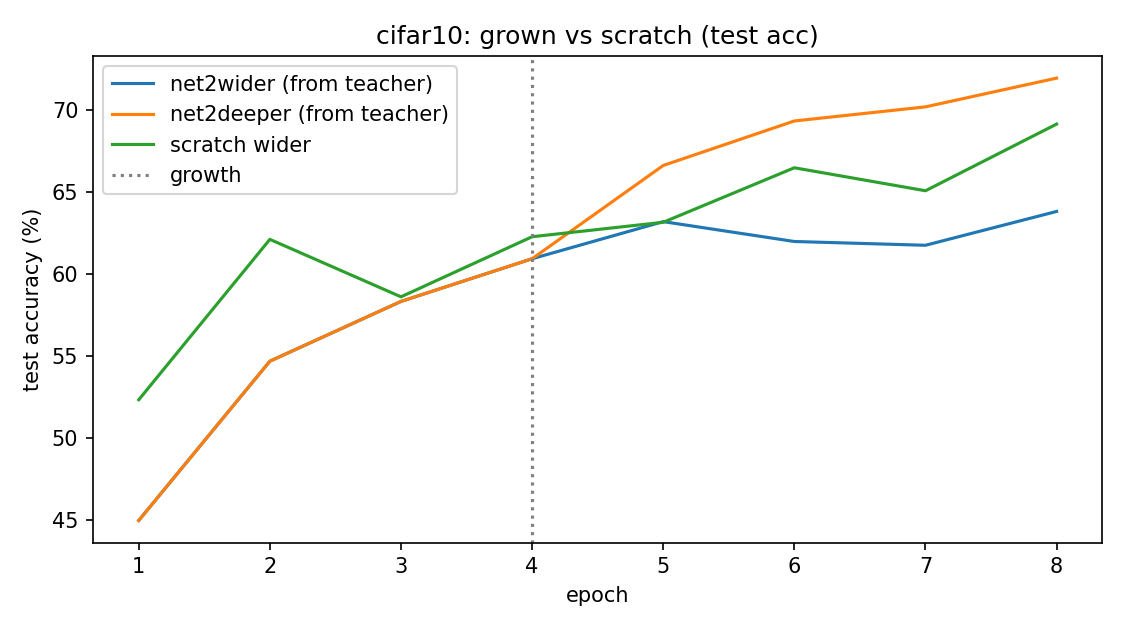
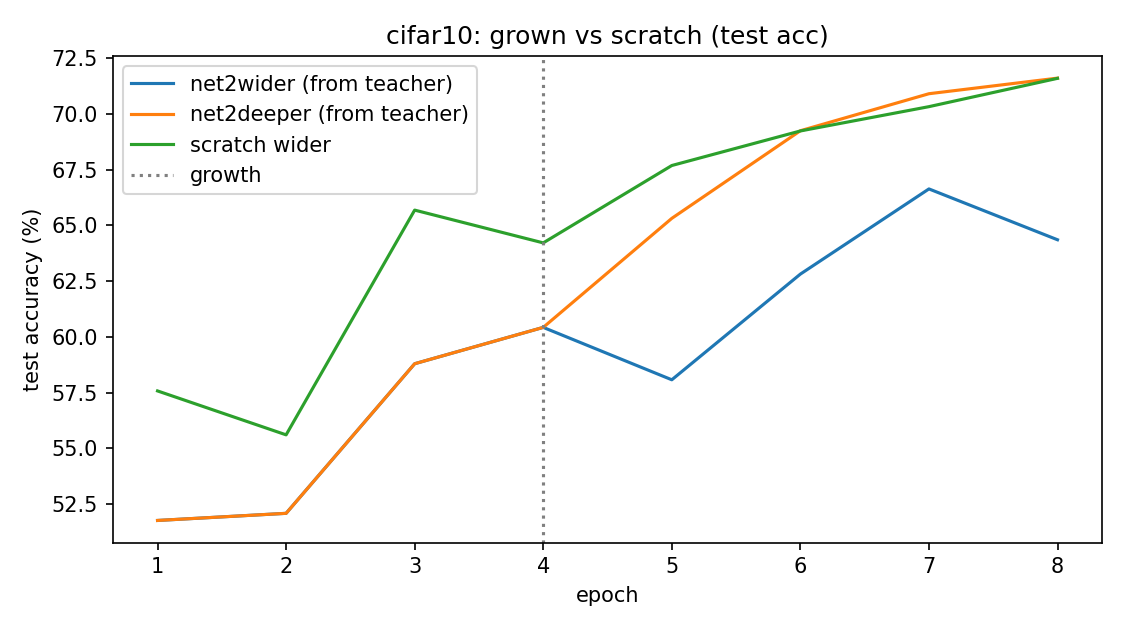
Fix BatchNorm channel copy so CIFAR Net2Wider preserves the function.

diff --git a/tests_repro_figures.py b/tests_repro_figures.py
@@ -4,8 +4,19 @@ from __future__ import annotations
 
 import torch
 
+import torch.nn as nn
+import torch.nn.functional as F
+
 from device_utils import select_device
-from repro_figures import MnistNet, apply_mnist_deeper, apply_mnist_wider, function_delta
+from net2net import wider
+from repro_figures import (
+    CifarNet,
+    MnistNet,
+    apply_cifar_wider,
+    apply_mnist_deeper,
+    apply_mnist_wider,
+    function_delta,
+)
 
 
 device = select_device()
@@ -51,3 +62,52 @@ def test_wider_with_noise_breaks_function_preservation() -> None:
         after = net(x)
     delta = function_delta(before, after)
     assert delta["max_abs"] > 1e-4
+
+
+def test_wider_bn_conv_block_function_preservation() -> None:
+    """Net2Wider on a BN conv block must keep eval-mode outputs (≤ 1e-5)."""
+    torch.manual_seed(0)
+    conv1 = nn.Conv2d(3, 8, 3, padding=1).to(device)
+    bn1 = nn.BatchNorm2d(8).to(device)
+    conv2 = nn.Conv2d(8, 16, 3, padding=1).to(device)
+    with torch.no_grad():
+        bn1.running_mean.uniform_(-0.5, 0.5)
+        bn1.running_var.uniform_(0.4, 1.6)
+        bn1.weight.uniform_(0.7, 1.3)
+        bn1.bias.uniform_(-0.2, 0.2)
+    x = torch.rand(4, 3, 16, 16, device=device)
+    conv1.eval()
+    bn1.eval()
+    conv2.eval()
+    with torch.no_grad():
+        before = conv2(F.relu(bn1(conv1(x))))
+    wider(
+        conv1,
+        conv2,
+        12,
+        bn1,
+        noise=False,
+        random_init=False,
+        weight_norm=False,
+    )
+    conv1.eval()
+    bn1.eval()
+    conv2.eval()
+    with torch.no_grad():
+        after = conv2(F.relu(bn1(conv1(x))))
+    delta = function_delta(before, after)
+    assert delta["max_abs"] <= 1e-5, delta
+
+
+def test_cifar_wider_function_delta_is_small_without_noise() -> None:
+    torch.manual_seed(0)
+    net = CifarNet().to(device).eval()
+    x = torch.rand(8, 3, 32, 32, device=device)
+    with torch.no_grad():
+        before = net(x)
+    apply_cifar_wider(net, noise=False)
+    net.eval()
+    with torch.no_grad():
+        after = net(x)
+    delta = function_delta(before, after)
+    assert delta["max_abs"] <= 1e-5, delta

diff --git a/net2net.py b/net2net.py
@@ -116,12 +116,14 @@ def wider(m1, m2, new_width, bnorm=None, out_size=None, noise=True,
                 nw2.select(0, i).copy_(w2.select(0, idx).clone())
             nb1[i] = b1[idx]
 
+            if bnorm is not None:
+                nrunning_mean[i] = bnorm.running_mean[idx]
+                nrunning_var[i] = bnorm.running_var[idx]
+                if bnorm.affine:
+                    nweight[i] = bnorm.weight.data[idx]
+                    nbias[i] = bnorm.bias.data[idx]
+
         if bnorm is not None:
-            nrunning_mean[i] = bnorm.running_mean[idx]
-            nrunning_var[i] = bnorm.running_var[idx]
-            if bnorm.affine:
-                nweight[i] = bnorm.weight.data[idx]
-                nbias[i] = bnorm.bias.data[idx]
             bnorm.num_features = new_width
 
         if not random_init:
